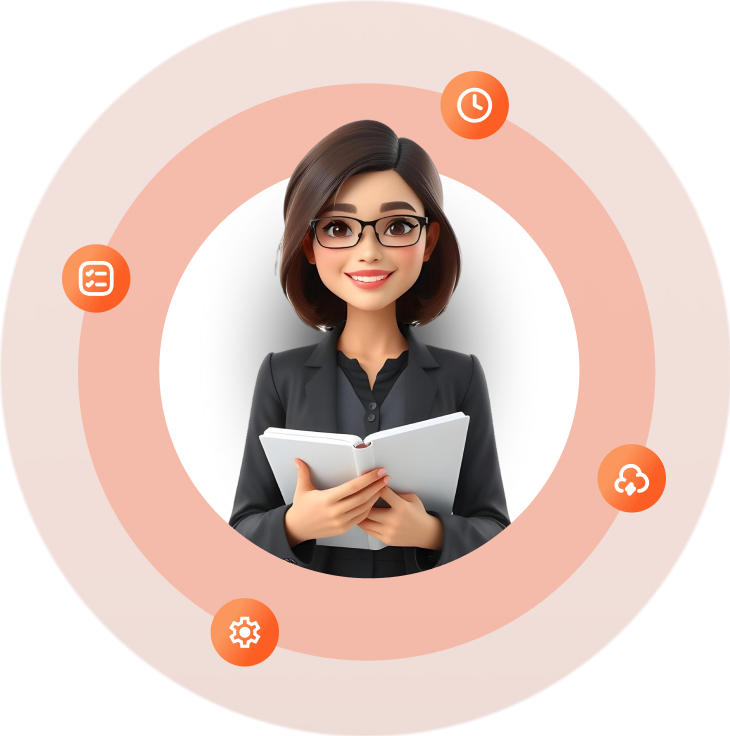
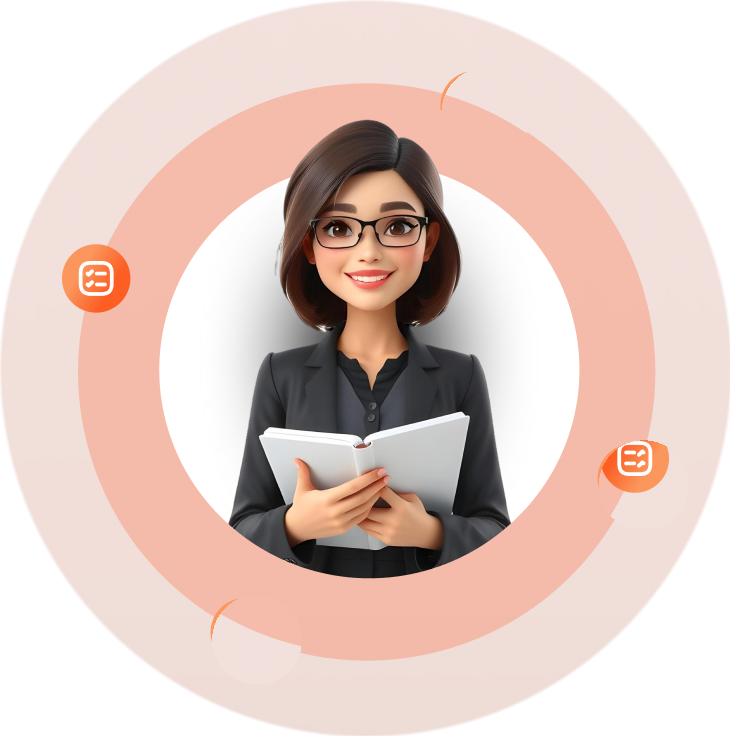
feat(ui): extract and animate exact orange badges to orbit pleasantly without size modifications

Changed region(s): [[0.8137, 0.5938, 0.9342, 0.7188], [0.2712, 0.8125, 0.4219, 0.9062], [0.6027, 0.0938, 0.7233, 0.1875]]

diff --git a/src/app/exams/create/page.tsx b/src/app/exams/create/page.tsx
@@ -240,6 +240,69 @@ export default function CreateExamPage() {
                     height={180}
                     className="h-full w-full object-contain"
                   />
+                  
+                  {/* Revolving Orbit Overlay */}
+                  <div className="absolute inset-0 pointer-events-none z-10 animate-[orbitRotation_25s_linear_infinite]">
+                    {/* 1. Clock Badge (Top-Right, ~295.3deg) */}
+                    <div 
+                      className="absolute left-1/2 top-1/2 w-[18.5px] h-[18.5px] flex items-center justify-center"
+                      style={{
+                        transform: 'translate(-50%, -50%) rotate(295.3deg) translateY(-66.5px) rotate(-295.3deg)'
+                      }}
+                    >
+                      {/* eslint-disable-next-line @next/next/no-img-element */}
+                      <img 
+                        src="/images/badge-clock.png" 
+                        alt="Clock Badge" 
+                        className="w-full h-full object-contain animate-[counterOrbit_25s_linear_infinite]"
+                      />
+                    </div>
+                    
+                    {/* 2. Cloud Badge (Bottom-Right, ~22.7deg) */}
+                    <div 
+                      className="absolute left-1/2 top-1/2 w-[18.5px] h-[18.5px] flex items-center justify-center"
+                      style={{
+                        transform: 'translate(-50%, -50%) rotate(22.7deg) translateY(-66.5px) rotate(-22.7deg)'
+                      }}
+                    >
+                      {/* eslint-disable-next-line @next/next/no-img-element */}
+                      <img 
+                        src="/images/badge-cloud.png" 
+                        alt="Cloud Badge" 
+                        className="w-full h-full object-contain animate-[counterOrbit_25s_linear_infinite]"
+                      />
+                    </div>
+                    
+                    {/* 3. Gear Badge (Bottom-Left, ~111.8deg) */}
+                    <div 
+                      className="absolute left-1/2 top-1/2 w-[18.5px] h-[18.5px] flex items-center justify-center"
+                      style={{
+                        transform: 'translate(-50%, -50%) rotate(111.8deg) translateY(-66.5px) rotate(-111.8deg)'
+                      }}
+                    >
+                      {/* eslint-disable-next-line @next/next/no-img-element */}
+                      <img 
+                        src="/images/badge-gear.png" 
+                        alt="Gear Badge" 
+                        className="w-full h-full object-contain animate-[counterOrbit_25s_linear_infinite]"
+                      />
+                    </div>
+                    
+                    {/* 4. List Badge (Left, ~198deg) */}
+                    <div 
+                      className="absolute left-1/2 top-1/2 w-[18.5px] h-[18.5px] flex items-center justify-center"
+                      style={{
+                        transform: 'translate(-50%, -50%) rotate(198deg) translateY(-66.5px) rotate(-198deg)'
+                      }}
+                    >
+                      {/* eslint-disable-next-line @next/next/no-img-element */}
+                      <img 
+                        src="/images/badge-list.png" 
+                        alt="List Badge" 
+                        className="w-full h-full object-contain animate-[counterOrbit_25s_linear_infinite]"
+                      />
+                    </div>
+                  </div>
                 </div>
 
                 {/* Upload boxes container card — Figma border, radius, spacing and padding */}

diff --git a/src/app/globals.css b/src/app/globals.css
@@ -228,3 +228,22 @@ textarea:focus-visible {
   --dist: -20px;
   animation: burstLine 0.5s cubic-bezier(0.1, 0.8, 0.3, 1) forwards;
 }
+
+/* Revolving Orbit Animations */
+@keyframes orbitRotation {
+  from {
+    transform: rotate(0deg);
+  }
+  to {
+    transform: rotate(360deg);
+  }
+}
+
+@keyframes counterOrbit {
+  from {
+    transform: rotate(0deg);
+  }
+  to {
+    transform: rotate(-360deg);
+  }
+}
